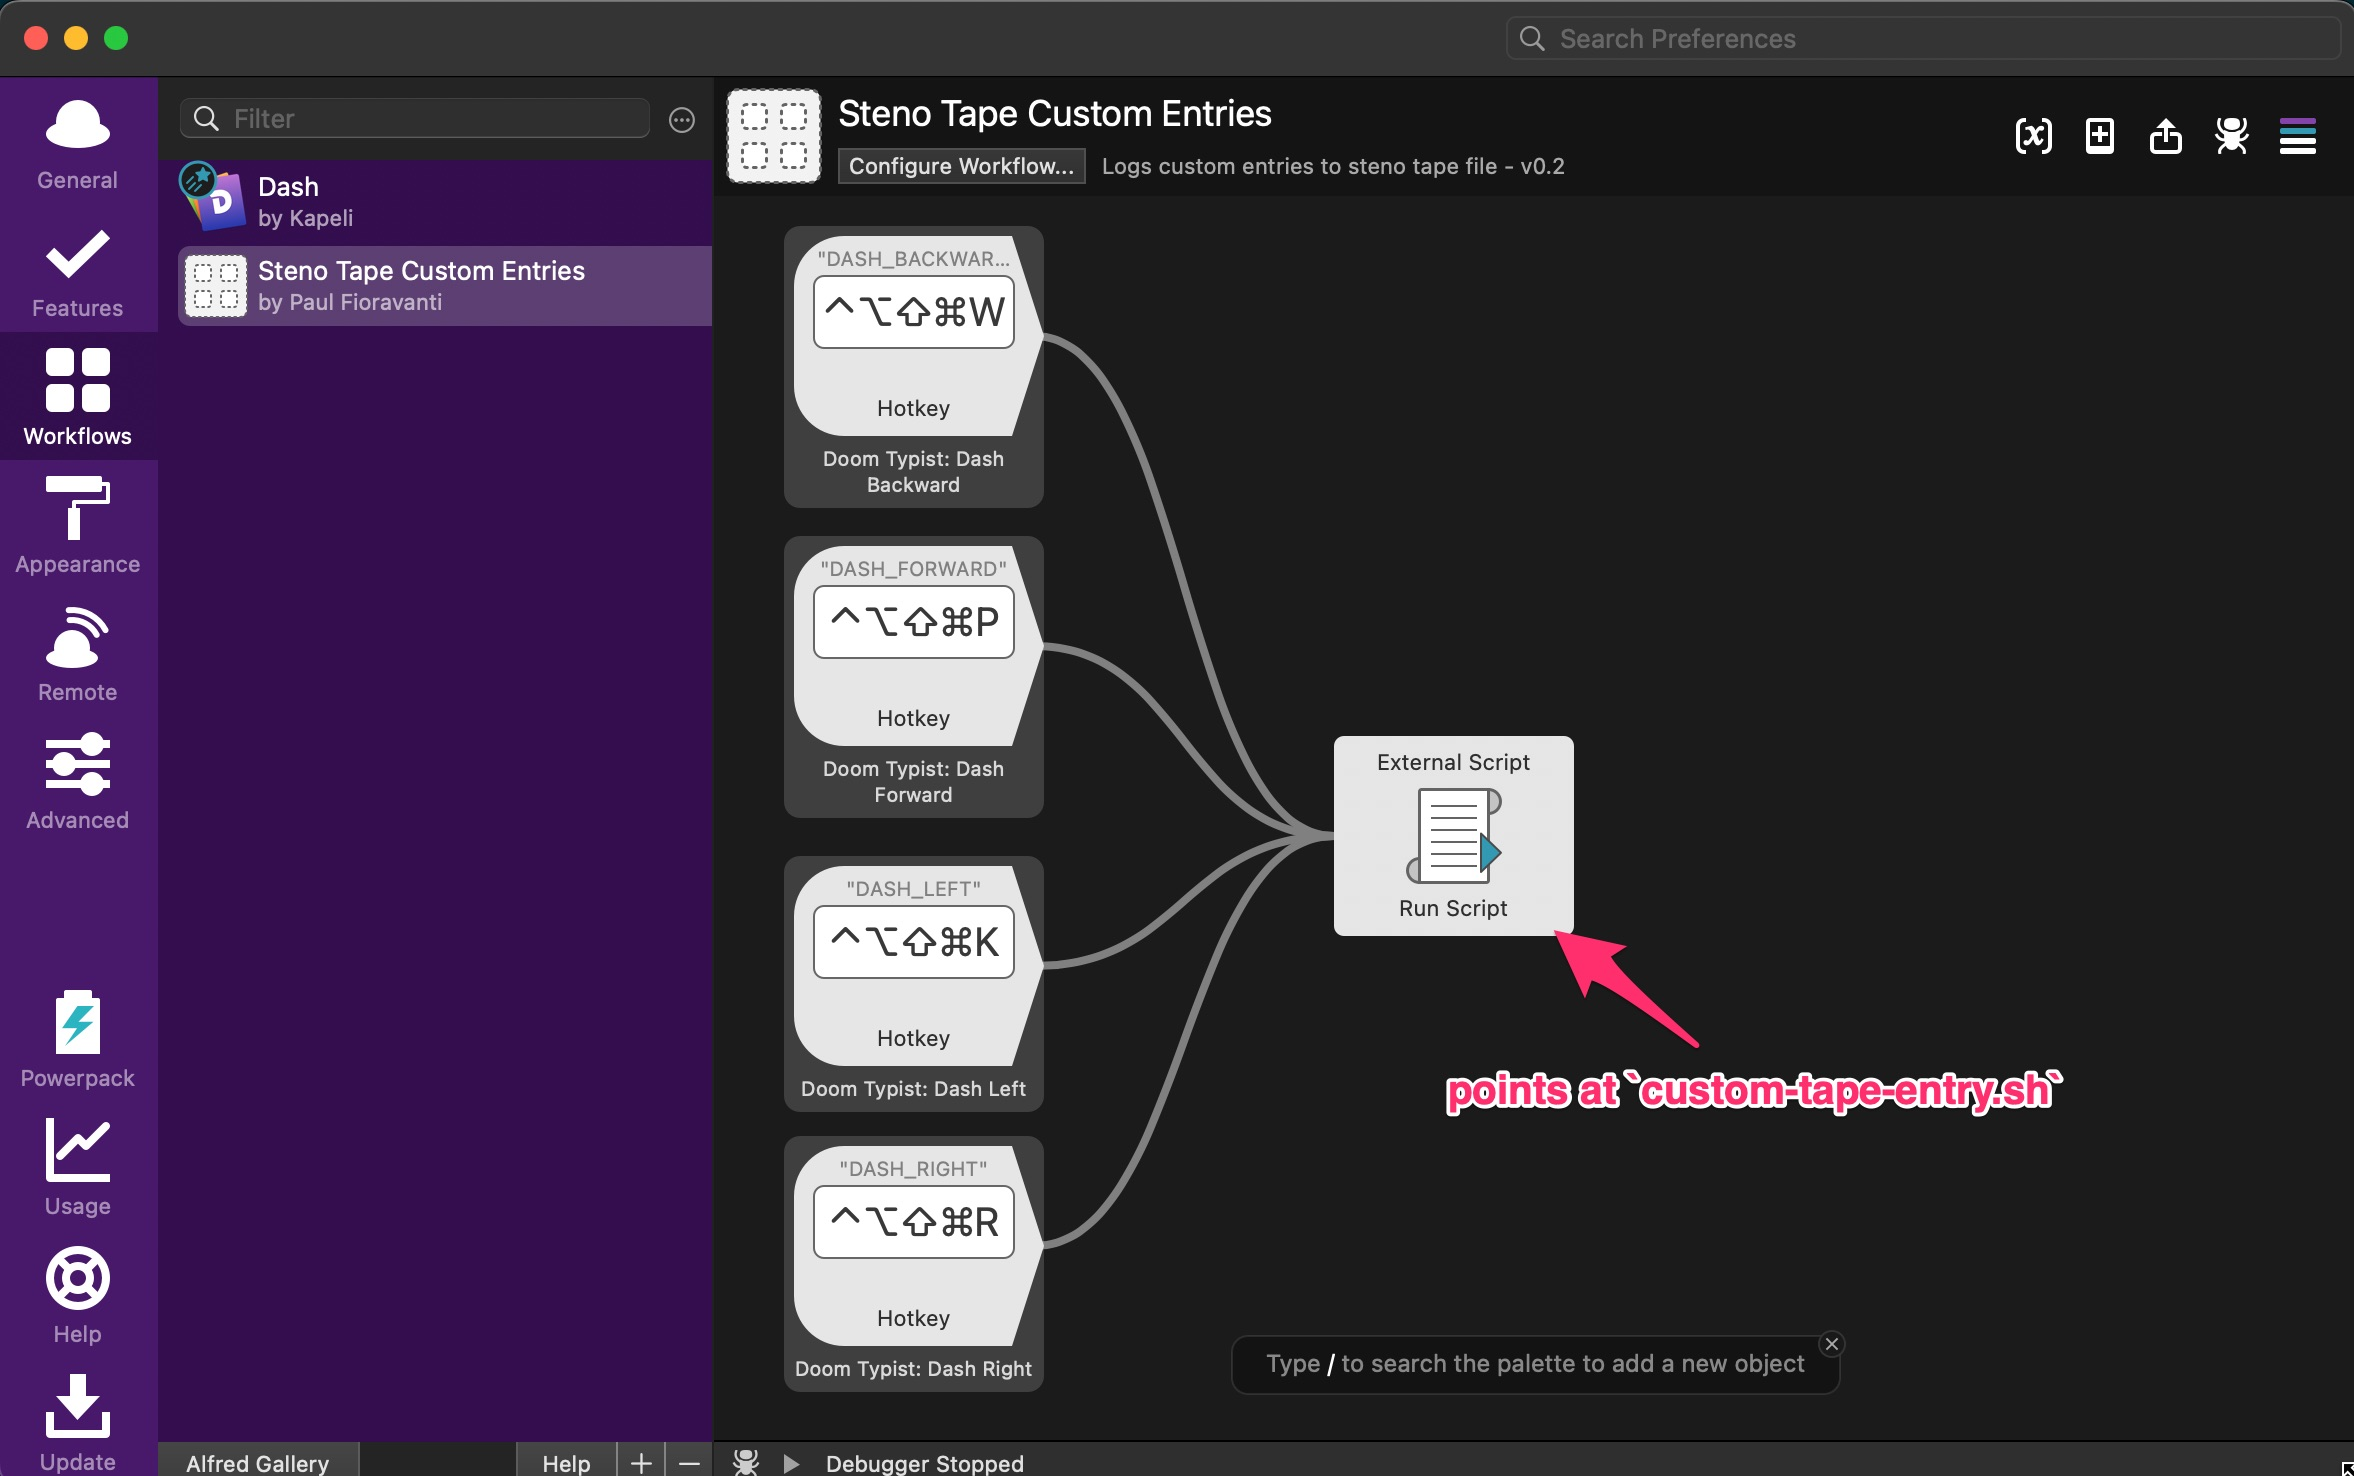
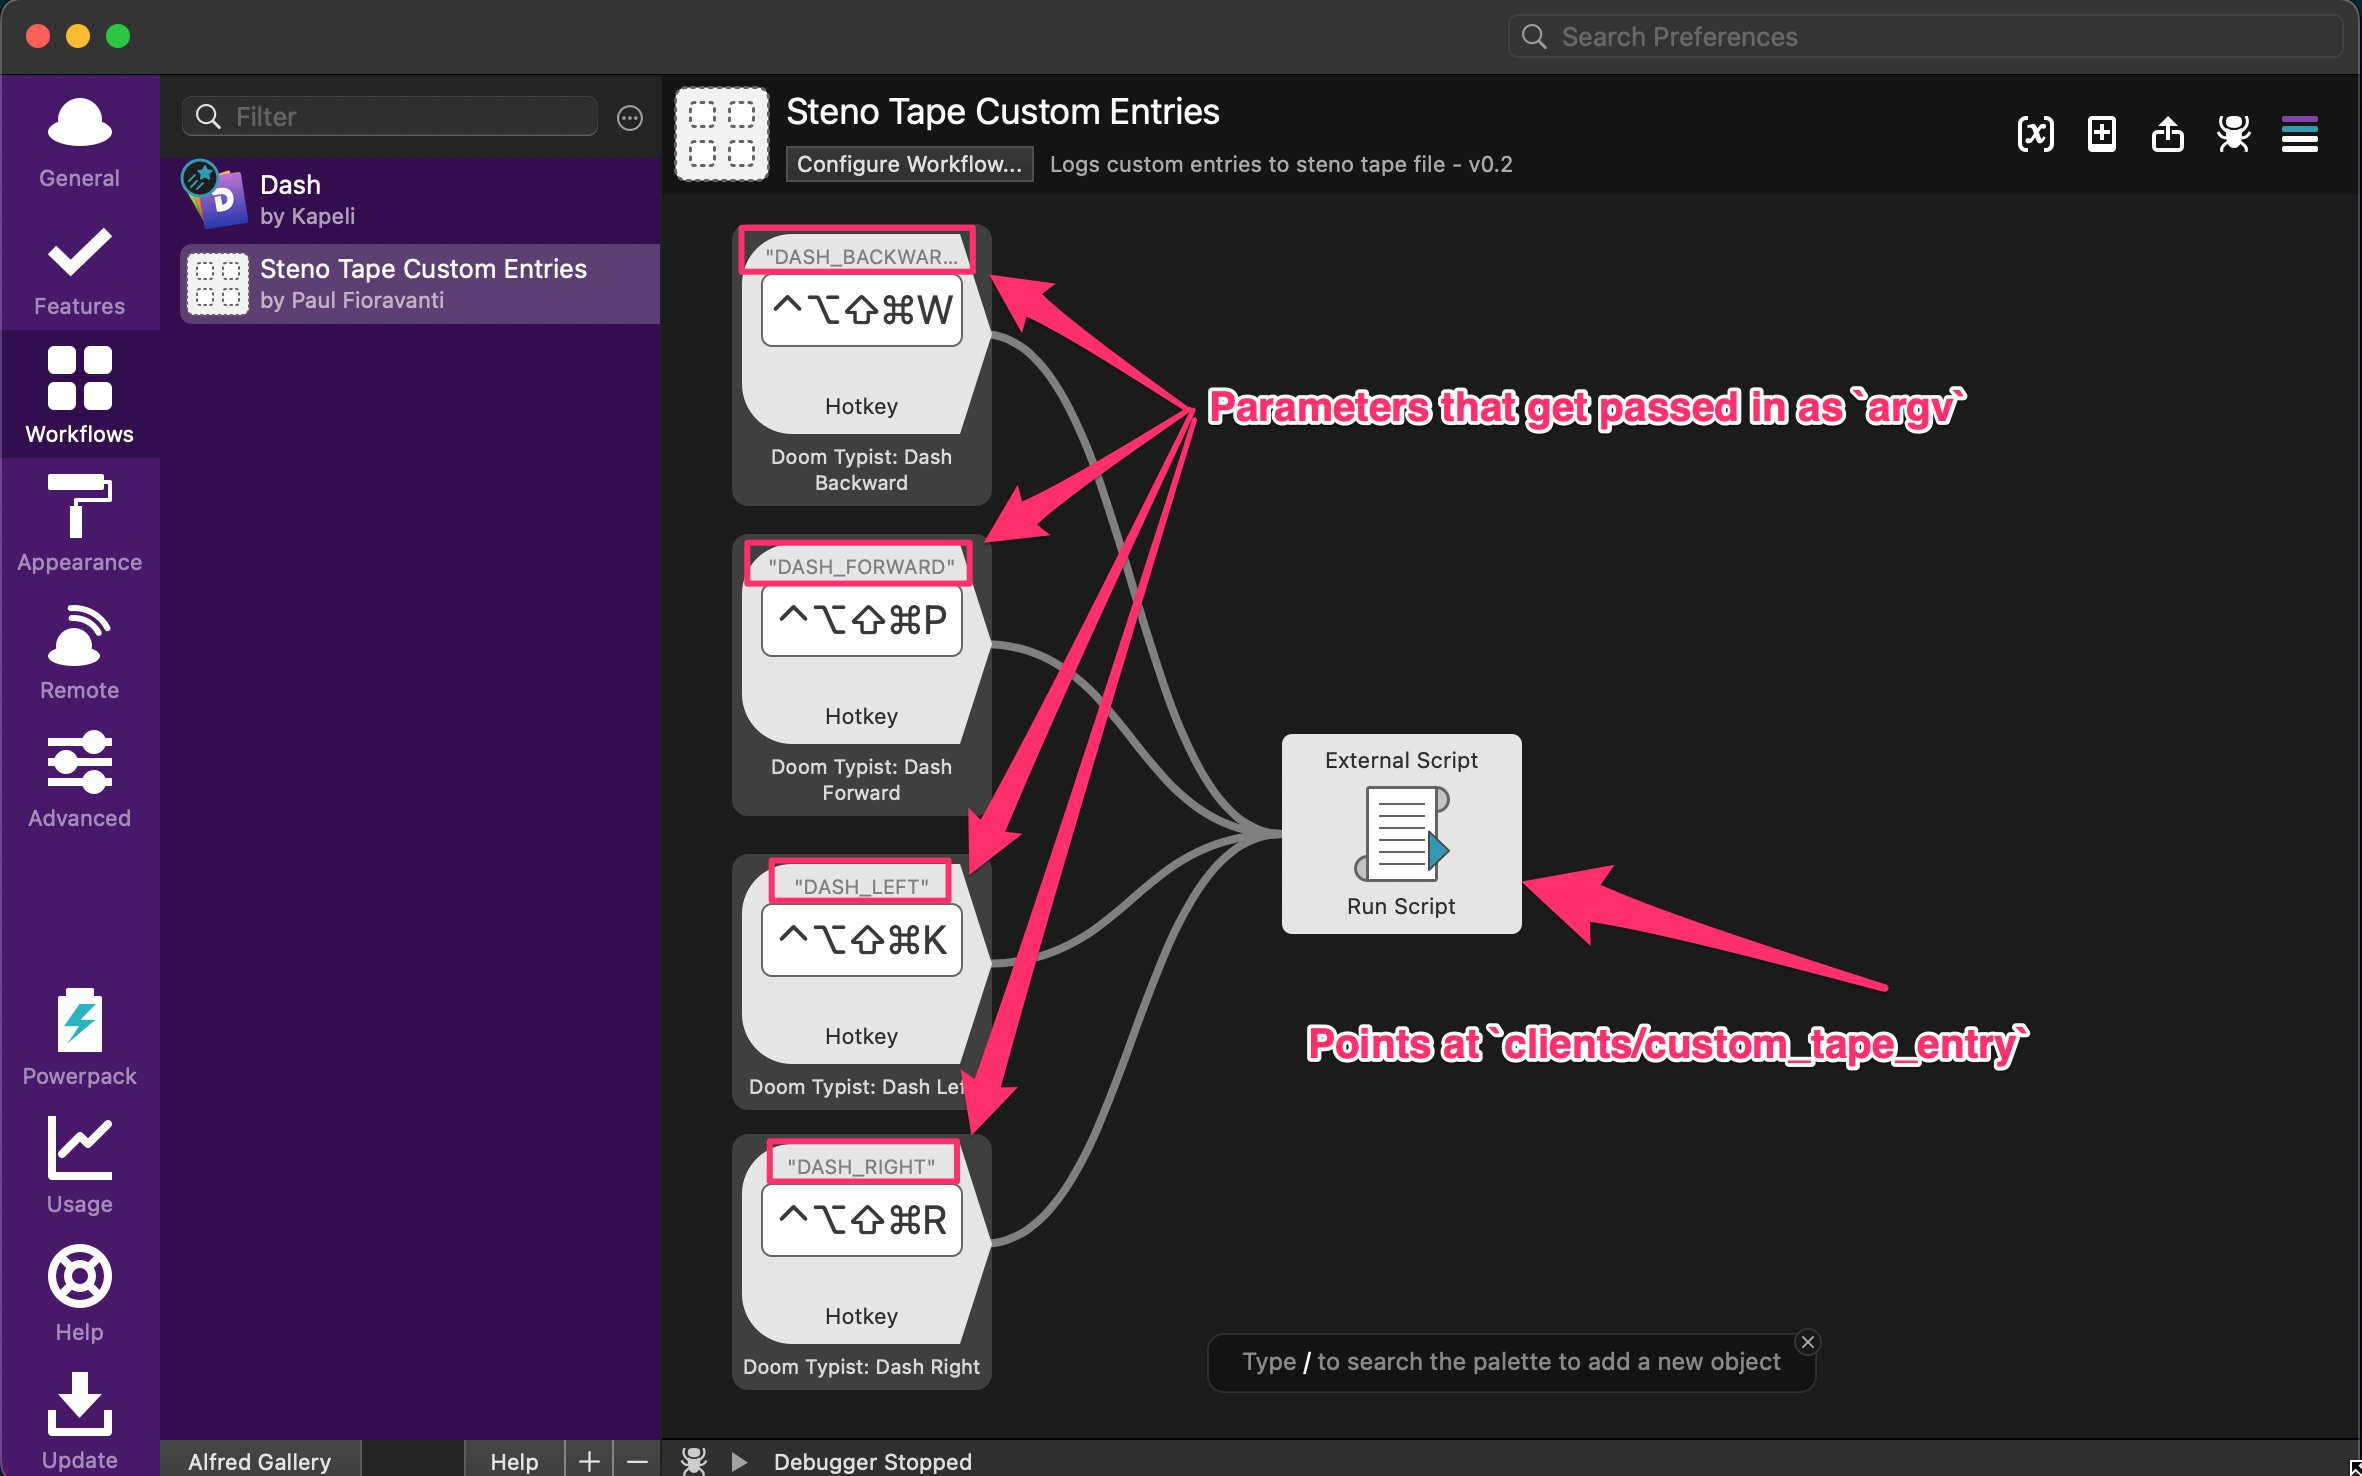
Move combo custom steno entries into the steno_tape library

diff --git a/include/steno_tape.h b/include/steno_tape.h
@@ -18,6 +18,7 @@ static const char TAPE_FILEPATH[] =
 static const char SEPARATOR[] = "|";
 
 static const char STENO_HEADER[] = "STENO ";
+// REF: http://kaomoji.ru/en/
 static const char * const STENO_MODE_EMOJIS[] = {
   "⌨ ｷﾀ━━━━━(ﾟ∀ﾟ)━━━━━!!⌨ ",
   "⌨ ☆*:.｡.o(≧▽≦)o.｡.:*☆⌨ ",
@@ -33,6 +34,7 @@ static const int NUM_STENO_MODE_EMOJIS =
 static const char STENO_MODE_MESSAGE[] = " STENO mode activated!\n";
 
 static const char GAMING_HEADER[] = "GAMING";
+// REF: http://kaomoji.ru/en/
 static const char * const GAMING_MODE_EMOJIS[] = {
   "🎮(❁´ω`❁)　✧٩(ˊωˋ*)و✧🎮",
   "🎮 ヽ( ⌒o⌒)人(⌒-⌒ )ﾉ 🎮",
@@ -48,8 +50,8 @@ static const int NUM_GAMING_MODE_EMOJIS =
   sizeof(GAMING_MODE_EMOJIS) / sizeof(GAMING_MODE_EMOJIS[0]);
 static const char GAMING_MODE_MESSAGE[] = " GAMING mode activated!\n";
 
-// REF: http://kaomoji.ru/en/
 static const char ERROR_HEADER[] = "ERROR ";
+// REF: http://kaomoji.ru/en/
 static const char * const ERROR_EMOJIS[] = {
   "💢     ლ(ಠ_ಠ ლ)      💢",
   "💢  ( ╯°□°)╯ ┻━━┻    💢",
@@ -69,11 +71,27 @@ static const int NUM_ERROR_EMOJIS =
 static const char MODE_UNCHANGED_MESSAGE[] =
   " Attempted mode change unsuccessful!\n";
 
+static const char * const CUSTOM_ACTIONS[] = {
+  "DASH_BACKWARD",
+  "DASH_FORWARD",
+  "DASH_LEFT",
+  "DASH_RIGHT"
+};
+static const char * const CUSTOM_ACTION_TAPE_ENTRIES[] = {
+  "COMBO |     W        R B G S  | W-RBGS (D,J,K,L,;) -> {#CONTROL(BACKSPACE)}{^/db}{#RETURN}\n",
+  "COMBO |    P         R B G S  | P-RBGS (E,J,K,L,;) -> {#CONTROL(BACKSPACE)}{^/df}{#RETURN}\n",
+  "COMBO |   K          R B G S  | K-RBGS (S,J,K,L,;) -> {#CONTROL(BACKSPACE)}{^/dl}{#RETURN}\n",
+  "COMBO |       R      R B G S  | R-RBGS (F,J,K,L,;) -> {#CONTROL(BACKSPACE)}{^/dr}{#RETURN}\n"
+};
+static const int NUM_CUSTOM_ACTIONS =
+  sizeof(CUSTOM_ACTIONS) / sizeof(CUSTOM_ACTIONS[0]);
+
 Tape* steno_tape_init(void);
 void steno_tape_error(Tape *tape, const char *message);
 void steno_tape_gaming_mode(Tape *tape);
 void steno_tape_steno_mode(Tape *tape);
 void steno_tape_mode_unchanged(Tape *tape);
+void steno_tape_custom_entry(Tape *tape, const char *entry);
 void steno_tape_cleanup(Tape *tape);
 
 static void log_message(
@@ -92,3 +110,4 @@ static char* build_tape_entry(
   const char *emoji,
   const char *message
 );
+static void log_tape_entry(Tape *tape, const char *tape_entry);

diff --git a/src/steno_tape.c b/src/steno_tape.c
@@ -48,6 +48,17 @@ void steno_tape_mode_unchanged(Tape *tape) {
   steno_tape_error(tape, MODE_UNCHANGED_MESSAGE);
 }
 
+void steno_tape_custom_entry(Tape *tape, const char *entry) {
+  for (int i = 0; i < NUM_CUSTOM_ACTIONS; i++) {
+    if (strcmp(entry, CUSTOM_ACTIONS[i]) == 0) {
+      log_tape_entry(tape, CUSTOM_ACTION_TAPE_ENTRIES[i]);
+      return;
+    }
+  }
+
+  printf("Unknown entry: %s\n", entry);
+}
+
 void steno_tape_cleanup(Tape *tape) {
   fclose(tape->file);
   free(tape->filepath);
@@ -63,7 +74,7 @@ static void log_message(
 ) {
   const char *emoji = get_random_collection_element(collection, num_elements);
   const char *tape_entry = build_tape_entry(header, emoji, message);
-  fwrite(tape_entry, 1, strlen(tape_entry), tape->file);
+  log_tape_entry(tape, tape_entry);
 }
 
 static const char* get_random_collection_element(
@@ -91,4 +102,8 @@ static char* build_tape_entry(
     message
   );
   return log_msg;
+}
+
+static void log_tape_entry(Tape *tape, const char *tape_entry) {
+  fwrite(tape_entry, 1, strlen(tape_entry), tape->file);
 }

diff --git a/clients/custom_tape_entry.c b/clients/custom_tape_entry.c
@@ -1,0 +1,16 @@
+#include <steno_tape.h>    // steno_tape_cleanup, steno_tape_custom_entry,
+                           // steno_tape_init,
+
+int main(int argc, char *argv[]) {
+  Tape *tape = steno_tape_init();
+  if (!tape) {
+    printf("ERROR: Unable to open log file\n");
+    steno_tape_cleanup(tape);
+    return -1;
+  }
+
+  steno_tape_custom_entry(tape, argv[1]);
+
+  steno_tape_cleanup(tape);
+  return 0;
+}

diff --git a/README.md b/README.md
@@ -50,24 +50,32 @@ In your C code header file, add the following:
 #include <steno_tape.h>
 ```
 
-## Custom Tape Entry Script
+## Custom Tape Entry Client
 
-This serves a similar purpose as the `steno_tape` library (adding custom,
-non-standard tape entries), but just outside of a C environment. I currently use
-this with [Alfred workflows][], where I want to output chords done in
-QWERTY mode (aka [combos][]) to the tape.
+This is just a small client that uses the `steno_tape` library to turn string
+parameters into custom tape entries. I currently use this with
+[Alfred workflows][], where I want to output chords done in QWERTY mode
+(aka [combos][]) to the tape.
 
 ### Usage
 
-The shell script can be run as follows:
+The client can be run as follows:
+
+#### Build
 
 ```sh
-./bin/custom-tape-entry.sh <ENTRY_NAME>
+./clients/build.sh
 ```
 
-See the script itself for what named entries are currently supported.
+#### Run
 
-This is how I run the script in the [Alfred][] workflow:
+```sh
+./clients/custom_tape_entry <ENTRY_NAME>
+```
+
+See the client code itself for what named entries are currently supported.
+
+This is how I run the program in the [Alfred][] workflow:
 
 ![Alfred workflow][Alfred workflow image url]
 
